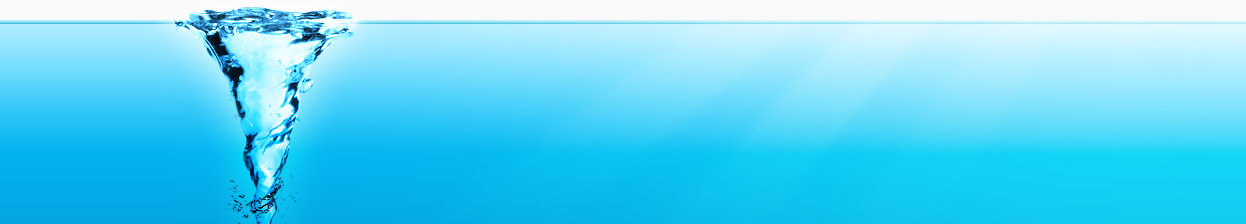
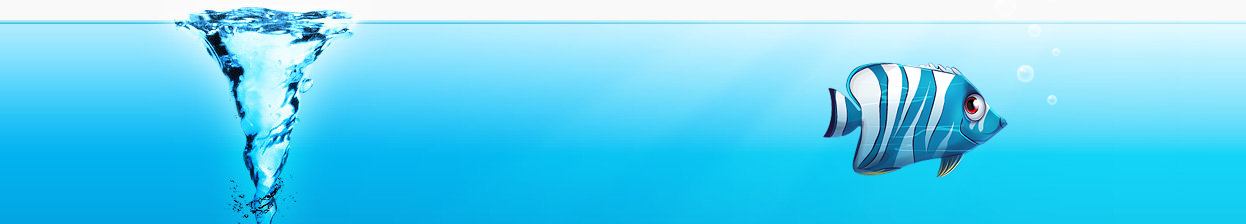
Amélioration CSS header

Changed region(s): [[0.6404, 0.2812, 0.8539, 0.7812], [0.8234, 0.4375, 0.8539, 0.4688]]

diff --git a/ScubaGrails/web-app/css/style.css b/ScubaGrails/web-app/css/style.css
@@ -13,7 +13,7 @@ p {margin-bottom:15px}
 /* GLOBAL */
 #main {width:910px;margin:0 auto;height:auto !important;height:100%;min-height:100%;position:relative}
 #header, #content, #footer {font-size:0.75em}
-.top-bg {background:url(../images/scuba/design/bg-top.jpg) no-repeat center top;position:relative;min-height:100%;height:auto !important;height:100%}
+.top-bg {background:url(../images/scuba/design/bg-topScubaGrailsIndex.jpg) no-repeat center top;position:relative;min-height:100%;height:auto !important;height:100%}
 .bot-bg {background:url(../images/scuba/design/bg-bottom.jpg) no-repeat center bottom;position:relative;min-height:100%;height:auto !important;height:100%}
 .tail-top {background:url(../images/scuba/design/tail-top.gif) left top repeat-x #028ecc;min-height:100%;height:auto !important;height:100%}
 .tail-bottom {background:url(../images/scuba/design/tail-bottom.gif) left bottom repeat-x;position:relative;min-height:100%;height:auto !important;height:100%}
@@ -25,7 +25,7 @@ p {margin-bottom:15px}
 a {color:#abe3fd;outline:none}
 a:hover{text-decoration:none}
 h1 {padding:28px 0 0 10px;font-size:3em;line-height:1em;float:left}
-h1 a {display:block;/*background:url(../images/scuba/design/logo.jpg) no-repeat left top*/;width:237px;height:40px;text-indent:-9999px}
+h1 a {display:block;background:url(../images/scuba/logoScuba.png) no-repeat left top;width:237px;height:40px;text-indent:-9999px}
 h1 span {background:/*url(../images/scuba/design/slogan.jpg) no-repeat left top*/;text-indent:-9999px;display:block;height:22px;width:437px}
 h2 {font-family:"Trebuchet MS", Arial, Helvetica, sans-serif;font-size:2.08em;line-height:1.1em;text-transform:uppercase;font-weight:normal;margin-bottom:23px}
 h3 {font-size:1em;padding:2px 0 0 0;margin-bottom:10px}
@@ -92,7 +92,7 @@ img {border:0;vertical-align:top;text-align:left}
 .designScuba {
 background-color: #eee;
 border: 0.1em solid #fff;
-margin: 2em 9em 1em;
+margin: 2em 8em 1em;
 padding: 1em;
 width: 60em;
 
